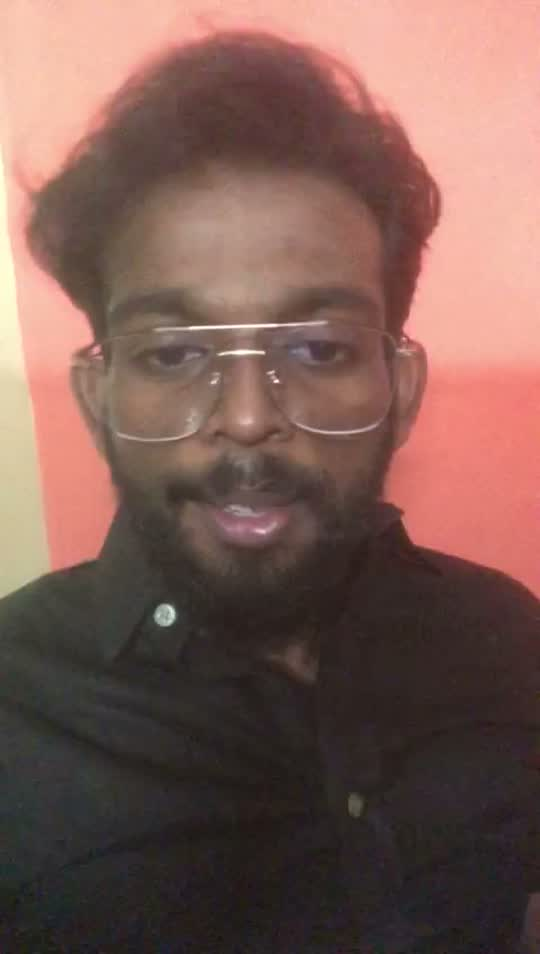
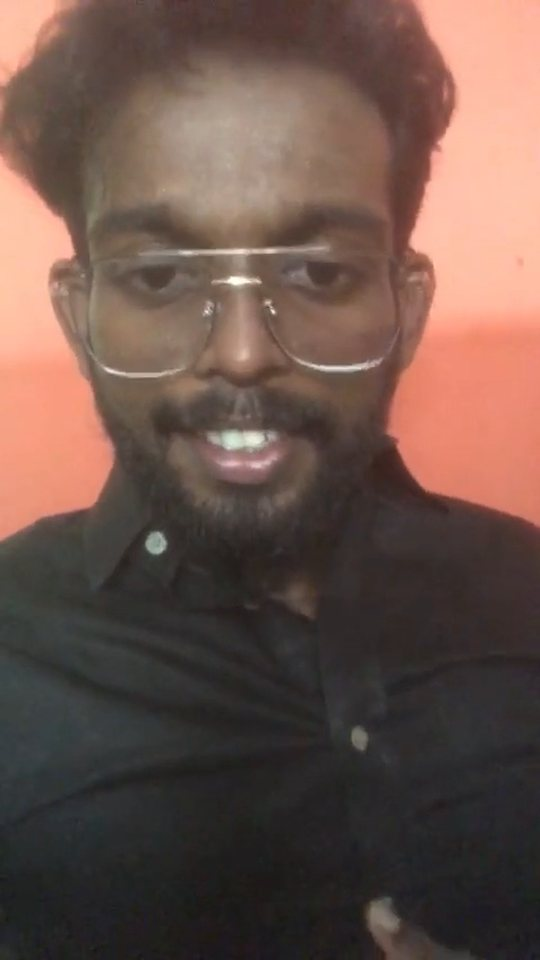
Client videos: new poster frames (eyes open, face clear, no caption text); no player bar until play

diff --git a/public/index.html b/public/index.html
@@ -33,7 +33,7 @@
 
   <link rel="preload" href="/fonts/inter-latin.woff2" as="font" type="font/woff2" crossorigin>
   <link rel="preload" href="/fonts/syne-latin.woff2" as="font" type="font/woff2" crossorigin>
-  <link rel="stylesheet" href="/css/main.css?v=2.7.2">
+  <link rel="stylesheet" href="/css/main.css?v=2.7.3">
 
   <!-- A nudge email's link is /?r={code}. Keep the code in session memory and take it out of the address
        BEFORE the Meta Pixel (and Clarity, once added) load, so neither records it. -->
@@ -118,7 +118,7 @@
         <div class="video-grid" id="video-grid">
           <article class="video-card">
             <div class="video-wrapper">
-              <video preload="metadata" playsinline poster="/videos/rahul-jain.webp">
+              <video preload="metadata" playsinline poster="/videos/rahul-jain.webp?v=2">
                 <source src="/videos/rahul-jain.mp4" type="video/mp4">
               </video>
               <button type="button" class="video-play-overlay" aria-label="Play video from Rahul Jain">
@@ -133,7 +133,7 @@
 
           <article class="video-card">
             <div class="video-wrapper">
-              <video preload="metadata" playsinline poster="/videos/ashok-vidyasagar.webp">
+              <video preload="metadata" playsinline poster="/videos/ashok-vidyasagar.webp?v=2">
                 <source src="/videos/ashok-vidyasagar.mp4" type="video/mp4">
               </video>
               <button type="button" class="video-play-overlay" aria-label="Play video from Ashok Vidyasagar">
@@ -148,7 +148,7 @@
 
           <article class="video-card">
             <div class="video-wrapper">
-              <video preload="metadata" playsinline poster="/videos/renuka.webp">
+              <video preload="metadata" playsinline poster="/videos/renuka.webp?v=2">
                 <source src="/videos/renuka.mp4" type="video/mp4">
               </video>
               <button type="button" class="video-play-overlay" aria-label="Play video from Renuka">
@@ -163,7 +163,7 @@
 
           <article class="video-card">
             <div class="video-wrapper">
-              <video preload="metadata" playsinline poster="/videos/jashwant.webp">
+              <video preload="metadata" playsinline poster="/videos/jashwant.webp?v=2">
                 <source src="/videos/jashwant.mp4" type="video/mp4">
               </video>
               <button type="button" class="video-play-overlay" aria-label="Play video from Jashwant">
@@ -178,7 +178,7 @@
 
           <article class="video-card">
             <div class="video-wrapper">
-              <video preload="metadata" playsinline poster="/videos/lorenz.webp">
+              <video preload="metadata" playsinline poster="/videos/lorenz.webp?v=2">
                 <source src="/videos/lorenz.mp4" type="video/mp4">
               </video>
               <button type="button" class="video-play-overlay" aria-label="Play video from Lorenz Mier">

diff --git a/public/css/main.css b/public/css/main.css
@@ -699,6 +699,14 @@ html[data-angle="noshow"] .h1-noshow {
   display: block;
 }
 
+/* No player bar (0:00, volume, full screen) until someone presses play: the controls attribute is only added on play,
+   and until then the browser's own control strip is hidden too (some phones draw it anyway) */
+.video-wrapper:not(.has-controls) video::-webkit-media-controls,
+.video-wrapper:not(.has-controls) video::-webkit-media-controls-panel,
+.video-wrapper:not(.has-controls) video::-webkit-media-controls-enclosure {
+  display: none !important;
+}
+
 /* Hide only the central native start button; keep the controls bar */
 video::-webkit-media-controls-start-playback-button,
 video::-webkit-media-controls-overlay-play-button {
